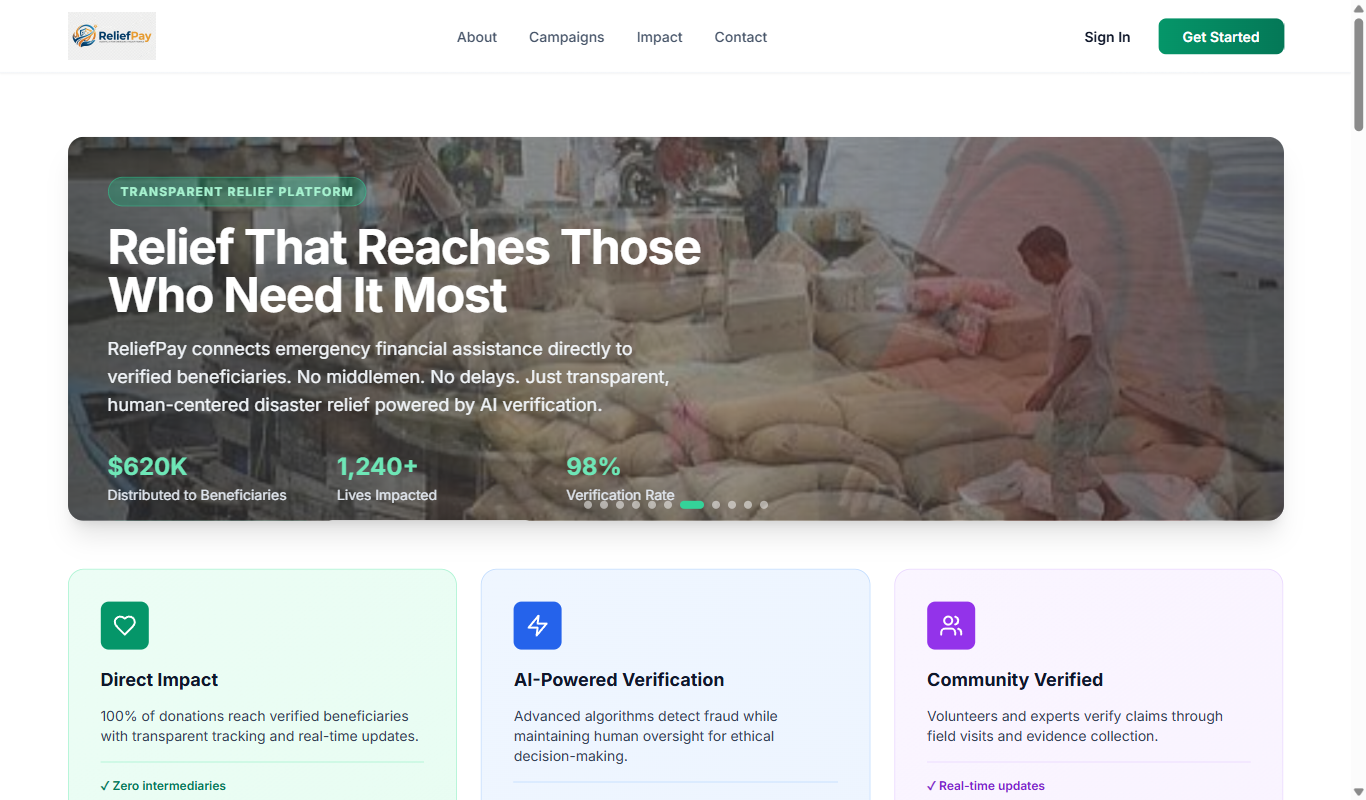
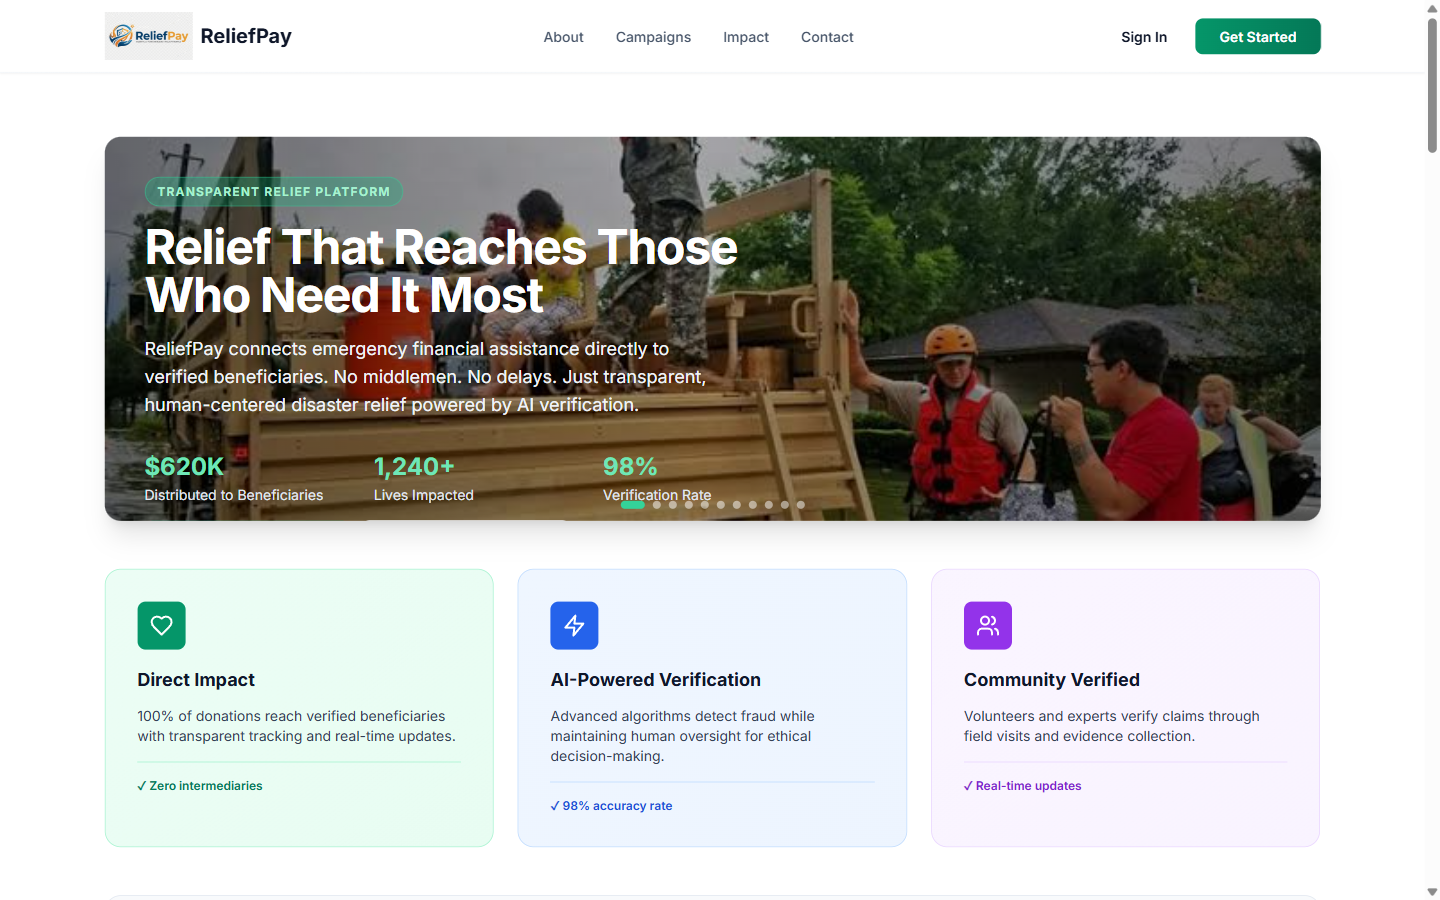
docs: run 3 screenshots and E2E report for the six UI changes
Replaced 01, 02, 04, 08, 12, 13, 15, 16; added 21 contact support, 22 settings panel, 23 payout method selector, 24 floating analytics assistant, 25 tax receipt PDF. README Features and Screenshots updated; E2E report run 3 with the Venmo verdict (not supported).

Verified: npm run build -> passes; npm test --prefix backend -> 143 pass, 0 fail; Playwright check of changes 1-6 against the local backend (Bedrock assistant on); seed reset after the run.

diff --git a/README.md b/README.md
@@ -11,7 +11,11 @@ ReliefPay is a disaster-relief platform where donors fund campaigns through PayP
 - **AI agent on Groq.** In the AI Command Centre an admin chats with an agent that calls local tools to read campaigns, applications, donations and payout batches, and can draft a payout batch. It has no tool that releases money.
 - **Split donations.** A signed-in donor can split one donation across 2 to 10 campaigns. The API creates one PayPal order with one purchase unit per campaign, and each captured unit is added to its own campaign. The AI can suggest percentages, but it only proposes; the donor edits and approves.
 - **Refunds lower campaign totals.** An admin can issue a full or partial refund through PayPal. Admin refunds and `PAYMENT.CAPTURE.REFUNDED`/`REVERSED` webhooks lower the campaign's raised total exactly once.
-- **AG Studio analytics** at `/admin/analytics`: donation feed, donor leaderboard, campaign progress and payout status, plus a refund panel. An optional AG Studio AI assistant runs through a server proxy on Amazon Bedrock (Nova 2 Lite) or Groq (off by default, see Known limitations).
+- **Payout method per beneficiary.** In a DRAFT batch the admin picks each beneficiary's payout method on the Payment Agent page. The choice is stored per payout item, can be changed only by an ADMIN while the batch is DRAFT, is audited as `PAYOUT_METHOD_CHANGED`, and sets the item's `recipient_type` in the Payouts request. PayPal email is the only supported method. Venmo is listed but disabled: PayPal sends Venmo payouts to a US mobile number or Venmo handle in USD only, and the PayPal sandbox does not support that recipient type.
+- **AG Studio analytics** at `/admin/analytics`: donation feed, donor leaderboard, campaign progress and payout status, plus a refund panel. An optional AG Studio AI assistant runs through a server proxy on Amazon Bedrock (Nova 2 Lite) or Groq (off by default, see Known limitations). A floating **AI Assistant** button in the bottom-right corner opens the assistant in View mode; Edit mode keeps AG Studio's own layout. When the assistant is off, the button is disabled with a tooltip.
+- **Tax receipt PDFs.** On the donor dashboard each donation has its own receipt download, and **Download Tax Receipt** builds one PDF with a page per donation: ReliefPay logo and header, receipt number, donor, campaign, USD amount, date, PayPal order or capture ID when present, and a PayPal sandbox demo note. jsPDF is lazy-loaded in its own chunk.
+- **Settings panel.** The gear in the dashboard header opens Settings: profile (name, email, role, organization), notification toggles saved in this browser's localStorage, and Sign Out.
+- **Landing page branding and support.** The navbar shows the ReliefPay logo with the "ReliefPay" name, and a "Contact our support team" block above the footer links to dineshrajdhanapathy@gmail.com. The campaigns page (split donation form) has a Back button.
 - **Postman collection** in `docs/postman/` for trying the API (see [Postman collection](#postman-collection)).
 - **Role-based access for 6 roles:** Admin, Reviewer, Beneficiary, Donor, Volunteer, Auditor.
 
@@ -23,12 +27,12 @@ Playwright runs against the live Render deployment and against a local run (PayP
 
 ## Screenshots
 
-The screenshots below walk through the product in order. They were captured with Playwright (1366x800) against a local run (`npm run build`, then `npm start --prefix backend` with `AG_STUDIO_AI=on` and `AG_STUDIO_AI_PROVIDER=bedrock`) using real PayPal sandbox, Groq and Amazon Bedrock calls. All files are in [docs/screenshots/](docs/screenshots/).
+The screenshots below walk through the product in order. They were captured with Playwright (1366x800; screenshots 1, 2, 4, 8, 12, 13, 15, 16 and 21-25 were retaken at 1440x900 in run 3) against a local run (`npm run build`, then `npm start --prefix backend` with `AG_STUDIO_AI=on` and `AG_STUDIO_AI_PROVIDER=bedrock`) using real PayPal sandbox, Groq and Amazon Bedrock calls. All files are in [docs/screenshots/](docs/screenshots/).
 
-| 1. Landing page | 2. Campaigns and split donation form |
+| 1. Landing page with logo and ReliefPay name | 2. Campaigns with Back button and split donation form |
 |---|---|
 | ![Landing page](docs/screenshots/01-landing.png) | ![Campaigns](docs/screenshots/02-campaigns.png) |
-| **3. Login with demo accounts** | **4. Donor dashboard** |
+| **3. Login with demo accounts** | **4. Donor dashboard with receipt downloads** |
 | ![Login](docs/screenshots/03-login-demo-accounts.png) | ![Donor dashboard](docs/screenshots/04-donor-dashboard.png) |
 | **5. Split donation: AI suggestion (Groq)** | **6. Split donation: PayPal buttons after Confirm split** |
 | ![AI split suggestion](docs/screenshots/05-split-ai-suggestion.png) | ![PayPal buttons](docs/screenshots/06-split-paypal-buttons.png) |
@@ -36,16 +40,22 @@ The screenshots below walk through the product in order. They were captured with
 | ![PayPal popup](docs/screenshots/07-paypal-sandbox-popup.png) | ![Admin dashboard](docs/screenshots/08-admin-dashboard.png) |
 | **9. Application management** | **10. AI Command Centre: answer as a table** |
 | ![Applications](docs/screenshots/09-application-management.png) | ![AI Command Centre table](docs/screenshots/10-ai-command-centre-table.png) |
-| **11. AI Command Centre: drafting a payout batch** | **12. Payment Agent: AI-drafted batch** |
+| **11. AI Command Centre: drafting a payout batch** | **12. Payment Agent: draft batch with Payout Method column** |
 | ![AI drafts a batch](docs/screenshots/11-ai-command-centre-draft-batch.png) | ![Payment Agent draft](docs/screenshots/12-payment-agent-draft.png) |
 | **13. Authorization dialog (code field empty)** | **14. Batch released, SUCCESS from PayPal** |
 | ![Authorize dialog](docs/screenshots/13-authorize-dialog-empty-code.png) | ![Payout released](docs/screenshots/14-payout-released-success.png) |
-| **15. AG Studio analytics (licensed, no watermark)** | **16. AG Studio AI Assistant on Amazon Bedrock** |
+| **15. AG Studio analytics (licensed, no watermark)** | **16. AG Studio AI Assistant on Amazon Bedrock (View mode)** |
 | ![Analytics](docs/screenshots/15-analytics-ag-studio.png) | ![AG Studio assistant](docs/screenshots/16-ag-studio-assistant-bedrock.png) |
 | **17. Donations and refunds panel** | **18. Auditor audit log** |
 | ![Refunds panel](docs/screenshots/17-refunds-panel.png) | ![Audit log](docs/screenshots/18-auditor-audit-log.png) |
 | **19. Beneficiary dashboard** | **20. Volunteer dashboard** |
 | ![Beneficiary dashboard](docs/screenshots/19-beneficiary-dashboard.png) | ![Volunteer dashboard](docs/screenshots/20-volunteer-dashboard.png) |
+| **21. Landing page: Contact our support team** | **22. Settings panel from the header gear** |
+| ![Contact support](docs/screenshots/21-landing-contact-support.png) | ![Settings panel](docs/screenshots/22-settings-panel.png) |
+| **23. Payout method per beneficiary (Venmo disabled)** | **24. Floating AI Assistant in View mode** |
+| ![Payout method selector](docs/screenshots/23-payout-method-selector.png) | ![Floating assistant](docs/screenshots/24-analytics-floating-assistant.png) |
+| **25. Tax receipt PDF (DON-901)** | |
+| ![Tax receipt PDF](docs/screenshots/25-tax-receipt-pdf.png) | |
 
 ## Architecture
 

diff --git a/docs/E2E_TEST_REPORT.md b/docs/E2E_TEST_REPORT.md
@@ -1,5 +1,30 @@
 # ReliefPay end-to-end test report
 
+## Run 3: six UI changes on `feat/integrations`
+
+- **Date:** 7 November 2026, about 14:20 to 14:45 UTC
+- **Target:** local run of commit `2549973` (payout method commit `4683817` before it): `npm run build`, then the backend on http://localhost:4000 with `AG_STUDIO_AI=on` and `AG_STUDIO_AI_PROVIDER=bedrock`. `npm run seed:reset --prefix backend` after the run.
+- **Method:** Playwright (Chromium, 1440x900), one step at a time. The PDF was captured from the page's own download and rendered with pdf.js for the screenshot.
+- **Automated tests:** `npm run build` passes (jsPDF in its own lazy chunk). `npm test --prefix backend`: 143 of 143 pass (136 before plus 7 payout method tests).
+
+| # | Change | Result | Screenshot |
+|---|---|---|---|
+| 1 | Landing navbar shows the logo and "ReliefPay"; "Contact our support team" block above the footer with `mailto:dineshrajdhanapathy@gmail.com` | ✅ Pass | `01-landing.png`, `21-landing-contact-support.png` |
+| 2 | Payout Method selector per beneficiary in the DRAFT batch | ✅ Pass. Both rows show "PayPal email"; "Venmo (not supported)" is a disabled option and the reason is shown under the table. Through the API, `PATCH /api/payouts/PB-SEED-001/items/PI-SEED-001` with `VENMO` returns 400 `UNSUPPORTED_PAYOUT_METHOD`, and with `PAYPAL_EMAIL` returns 200. `GET /api/payouts` returns `payoutMethods`. The authorization dialog still opens with an empty code field; the batch was not released in this run. | `12-payment-agent-draft.png`, `23-payout-method-selector.png`, `13-authorize-dialog-empty-code.png` |
+| 3 | Header gear opens Settings | ✅ Pass. Shows name, email, role and organization. Turning on the "Weekly impact summary" toggle and reloading keeps the new value (localStorage key `reliefpay.notifications.<user id>`). Sign Out in the panel returns to `/login`. | `22-settings-panel.png` |
+| 4 | Floating AI Assistant button on the analytics page in View mode | ✅ Pass. On page load the bottom-right button opens the AG Studio assistant; "Close assistant" hides it and it reopens. Edit mode still works and shows the assistant in AG Studio's default layout (the floating button is hidden there). Bedrock answered "Which active campaigns are furthest from their target?" with Kerala $2,500 and Mumbra $1,320 short. | `15-analytics-ag-studio.png`, `24-analytics-floating-assistant.png`, `16-ag-studio-assistant-bedrock.png` |
+| 5 | Tax receipt PDF | ✅ Pass. The DON-901 row icon downloads `RP-TR-DON-901.pdf` (valid PDF, one page) and **Download Tax Receipt** downloads `ReliefPay-tax-receipts.pdf`. The receipt has the logo, receipt number, donor, campaign, $500.00 (USD), date, donation ID and the sandbox demo note. Seeded donations have no PayPal order or capture ID, so that line is not shown. | `04-donor-dashboard.png`, `25-tax-receipt-pdf.png` |
+| 6 | Back button on the campaigns page | ✅ Pass. "Back to Dashboard" above the title returns to `/dashboard`. | `02-campaigns.png` |
+
+**Venmo verdict: not supported.** PayPal Payouts v1 sends Venmo payouts with `recipient_wallet: VENMO` to a US mobile number (`recipient_type: PHONE`) or a Venmo handle, USD only and US recipients only. PayPal's `payout_item_request` definition says the sandbox does not support the PHONE recipient type, and ReliefPay stores only a PayPal email per beneficiary, so Venmo could not be sent or tested correctly. It is listed as disabled and the API rejects it.
+
+Notes:
+
+- Each receipt PDF is about 3 MB because the logo image is embedded at full size.
+- Once, after several View/Edit switches, the floating button opened the assistant with the side panels collapsed. A fresh load and a single Edit then View switch did not reproduce it.
+- The AG Studio console logged one internal projection error while answering; the answer still completed.
+- Screenshots 3, 5-7, 9-11, 14 and 17-20 are from run 2. Screenshot 14 needs a real release with the authorization code, which this run did not do.
+
 ## Run 2: local run after fixing F1-F3
 
 - **Date:** 7 November 2026, 12:44 to 13:10 UTC
